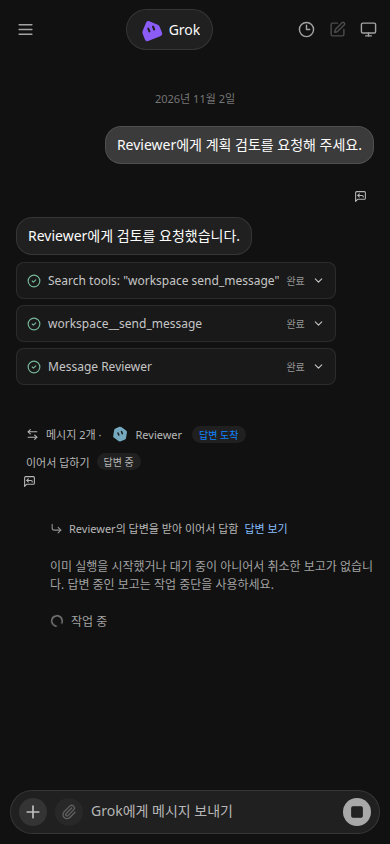
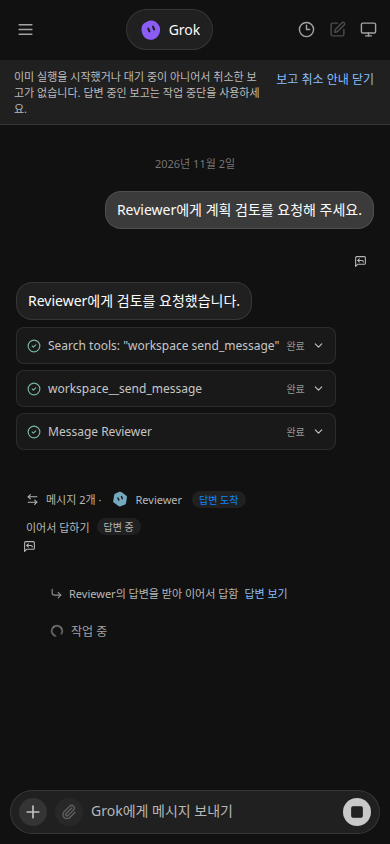
docs: refresh visible no-op feedback and scrolled-history evidence

diff --git a/docs/evidence/issue-33/README.md b/docs/evidence/issue-33/README.md
@@ -5,7 +5,7 @@ All screenshots are actual Chrome captures of the local Rust application and rea
 ## Matched Before / After
 
 - **Before:** `d6c90d6698a890667a5edbbc3f898b53e26b09bc` (main after PR #24 and PR #30). Both the unchanged frontend and exact baseline Rust server were built before capture; the baseline has a separate Cargo target.
-- **After implementation:** `d485cbf831614fd43d90f661cea55163a8726326`. A following evidence-only commit records this directory.
+- **After implementation:** `ebec22bc5ad1b675ec60c542eee2271f39ef78a2`. A following evidence-only commit records this directory.
 - Same scenario, locale `ko-KR`, timezone `UTC`, Dark theme, and viewports **1040 × 760** / **390 × 844**. Each isolated fixture has generated bot/conversation IDs.
 - User asks Grok to request Reviewer's plan verdict and approves the message. Reviewer's answer arrives while an older routine occupies the global execution slot, leaving the follow-up report queued.
 - For the no-op comparison, the browser holds the cancellation request, the routine finishes, and the real scheduler starts the selected report before the request proceeds. Both captures therefore show the same running report after the cancellation command; Before silently succeeds, while After explains that nothing was cancelled.
@@ -17,7 +17,7 @@ All screenshots are actual Chrome captures of the local Rust application and rea
 | Scheduler first / no-op, desktop | [Before](<./before-noop-1040.png>) | [After](<./after-noop-1040.png>) |
 | Scheduler first / no-op, mobile | [Before](<./before-noop-390.png>) | [After](<./after-noop-390.png>) |
 
-The pending action now visibly says **이 보고 취소** and sends only that summary's displayed delivery ID. No-op feedback is visible and announced after the user's action. Running and historical report chips have no status role and opt out of the transcript's live announcements; queued chips remain live.
+The pending action now visibly says **이 보고 취소** and sends only that summary's displayed delivery ID. No-op feedback appears in a dismissible, non-scrolling chat banner and is announced after the user's action, including when the selected older report is far above the transcript tail. [Desktop long-history regression](<./after-noop-scrolled-1040.png>) and [mobile long-history regression](<./after-noop-scrolled-390.png>) are additional After captures, not replacements for the paired comparisons. Running and historical report chips have no status role and opt out of the transcript's live announcements; queued chips remain live.
 
 ## API and persistence
 
@@ -29,6 +29,6 @@ Before the first unstarted cancellation is written, the ordered store writer pre
 
 ## Verification
 
-Completed frontend checks: production build/typecheck, existing frontend-state tests, interface detector, and all **4** Rust-backed Playwright scenarios. The browser suite covers the original automatic follow-up, desktop/mobile selected cancellation with disk and server-restart persistence, exact outgoing selected IDs, rejected-command retry, in-flight duplicate-action disabling, keyboard activation, conditional live-region attributes, and scheduler-first no-op feedback with the report continuing to completion.
+Completed frontend checks: production build/typecheck, existing frontend-state tests, interface detector, and all **5** Rust-backed Playwright scenarios. The browser suite covers the original automatic follow-up, desktop/mobile selected cancellation with disk and server-restart persistence, exact outgoing selected IDs, rejected-command retry, in-flight duplicate-action disabling, keyboard activation, conditional live-region attributes, and scheduler-first no-op feedback with the report continuing to completion. The desktop/mobile scheduler-first cases use a loader-accepted long-history fixture, scroll to an older report, and assert that both the no-op banner and selected status intersect the viewport while more than 500 px of later transcript remains below it; dismissal is verified.
 
-Rust store/core regression suites passed, including real HTTP/shared-queue tests for cancellation-first and dispatch-first, A selected followed by B arriving and only B executing, strict body validation, exact private create-once backup bytes, restart/no overwrite, fail-closed obstructed or invalid backups, and no fabricated rollback backup for already-new-shape states. Format and whitespace checks passed; final lint and independent-review results are recorded on the PR. No paid model, hosted deployment, or GitHub approval by the local reviewer is claimed.
+Rust store/core regression suites passed, including real HTTP/shared-queue tests for cancellation-first and dispatch-first, A selected followed by B arriving and only B executing, strict body validation, exact private create-once backup bytes, restart/no overwrite, fail-closed obstructed or invalid backups (including valid-JSON versions 2/99, empty bots, dangling references and hardlinks; the same schema/reference checks as actual state loading), and no fabricated rollback backup for already-new-shape states. Format and whitespace checks passed; final lint and independent-review results are recorded on the PR. No paid model, hosted deployment, or GitHub approval by the local reviewer is claimed.
